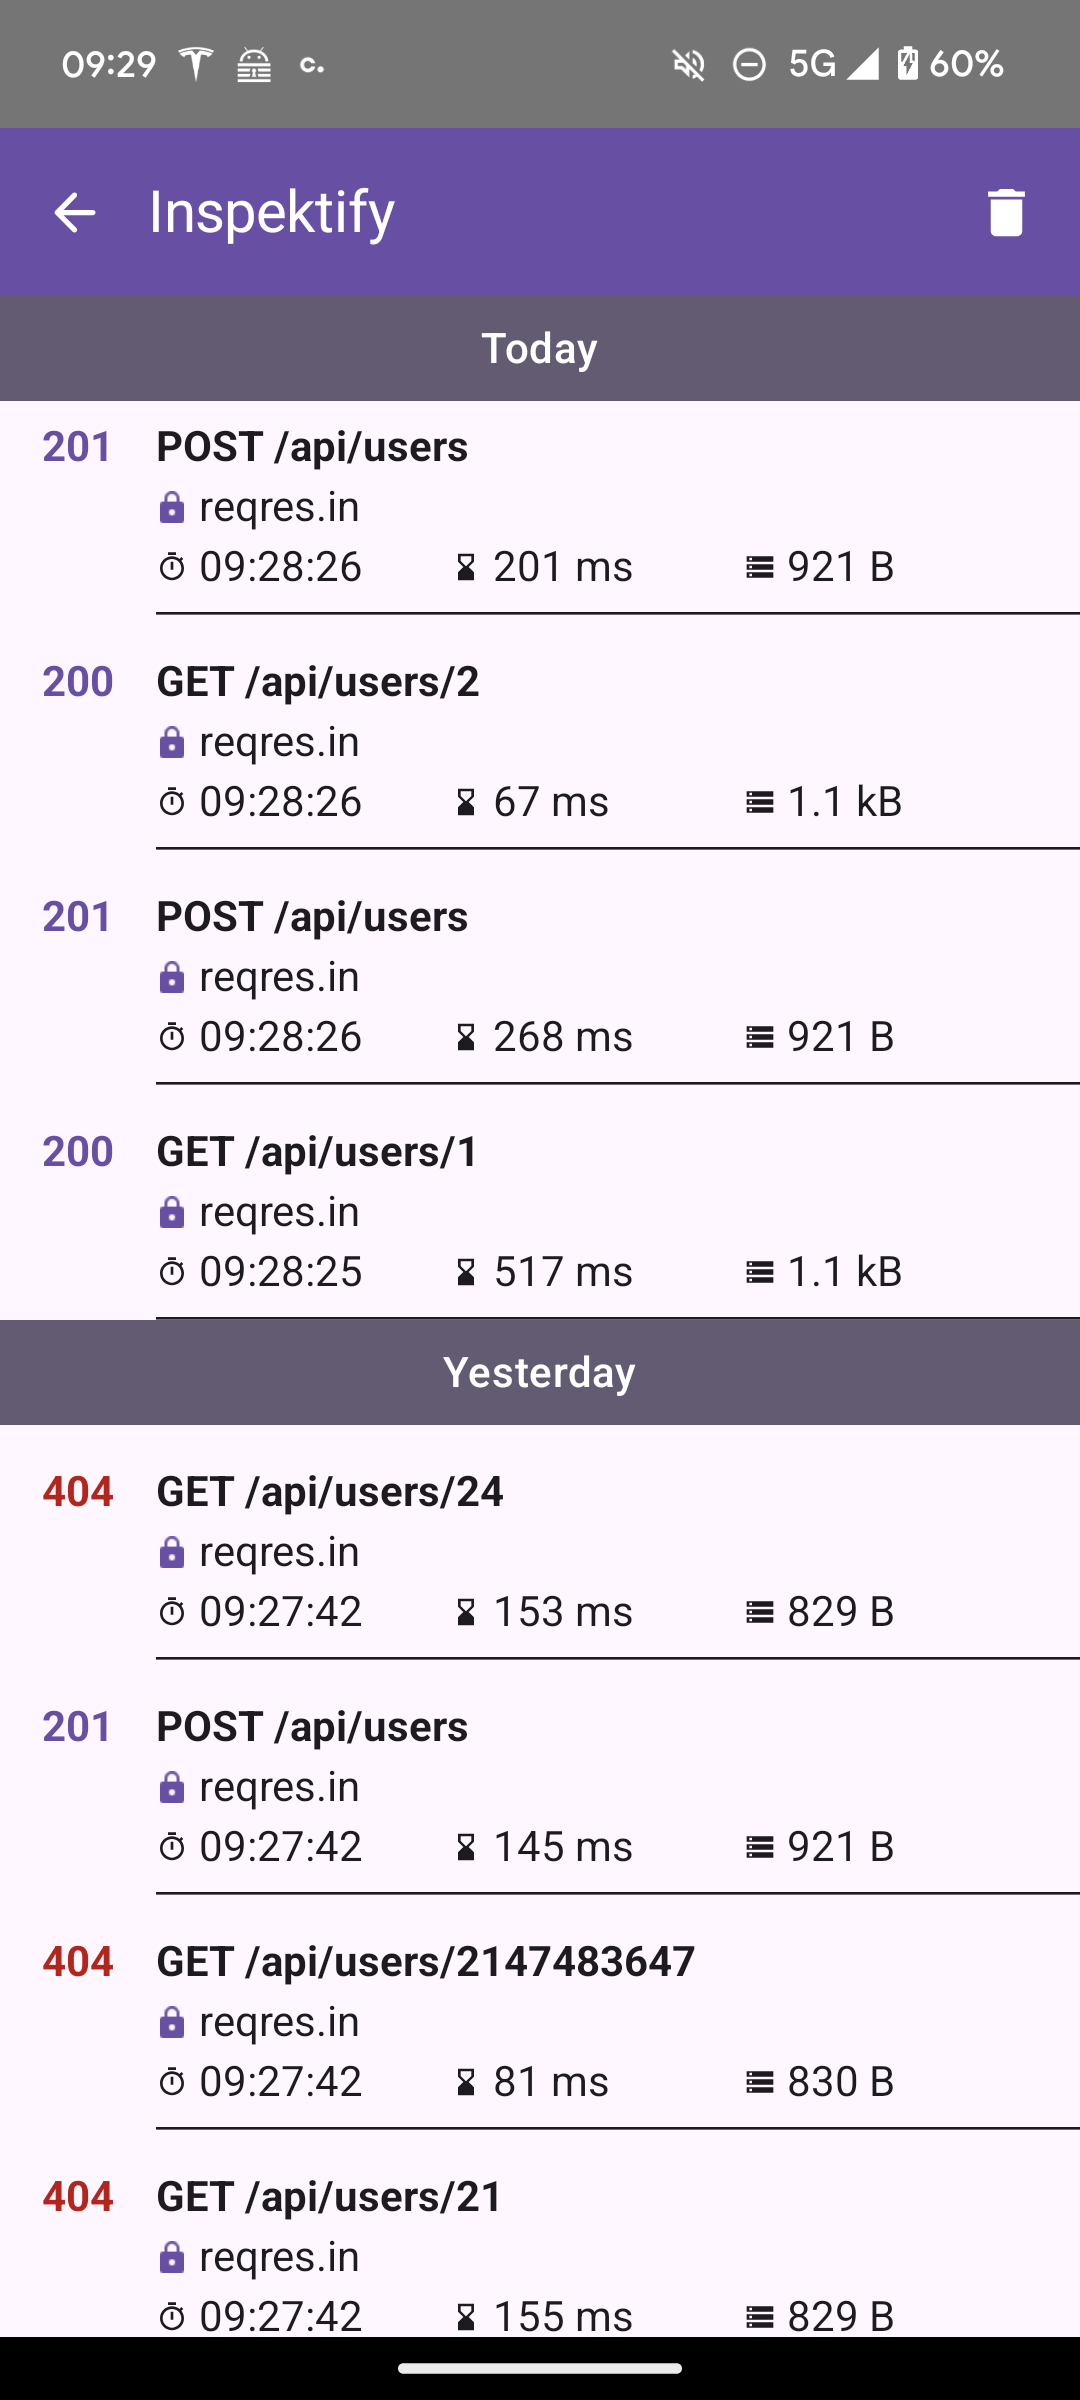
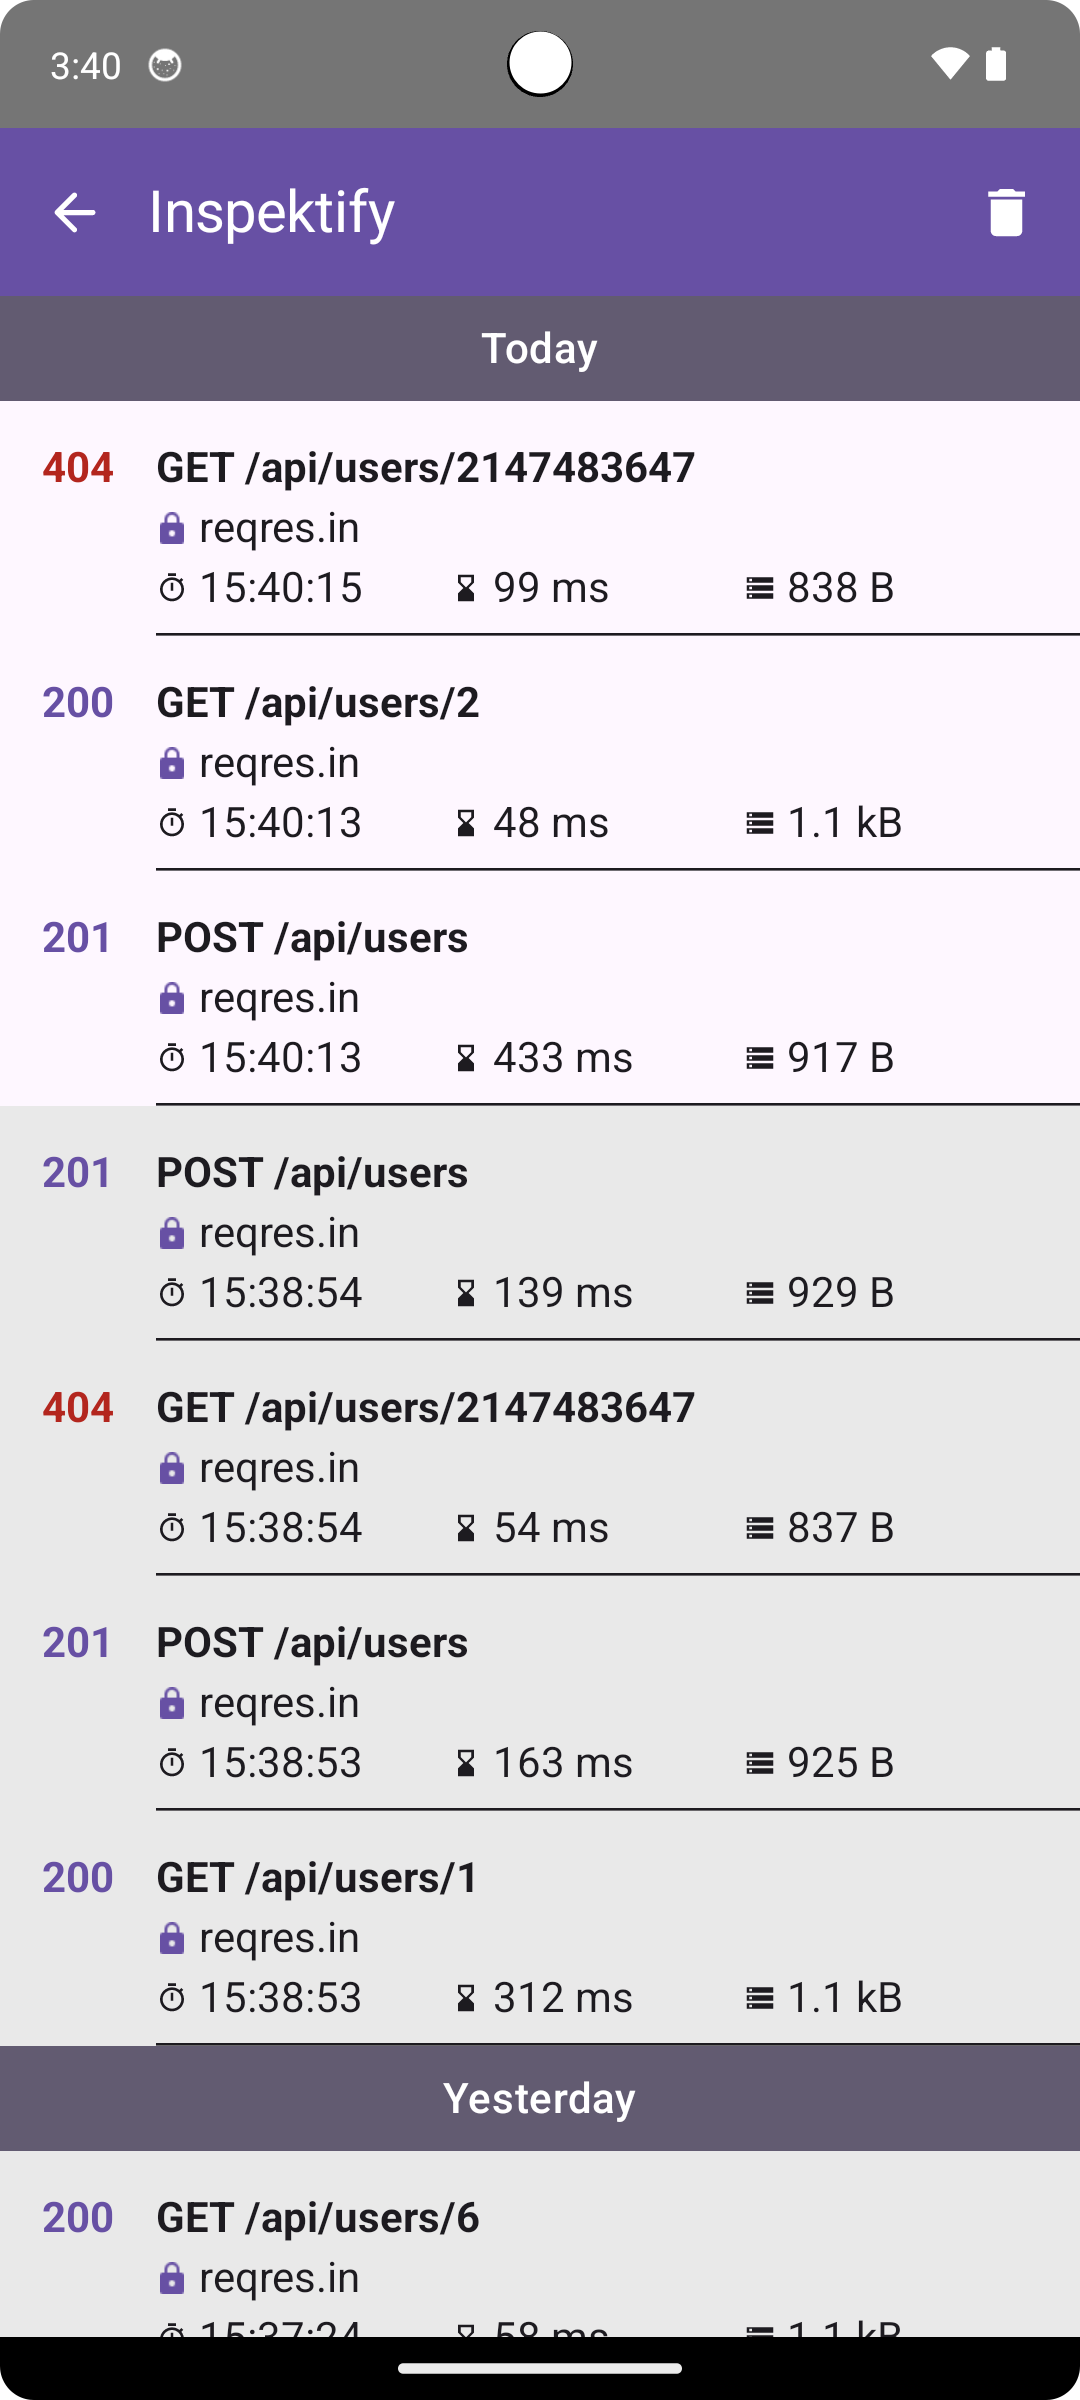
[48] feat: fix readme and screenshots

diff --git a/inspektify/src/commonMain/kotlin/sp/bvantur/inspektify/ktor/InspektifyKtorClient.kt b/inspektify/src/commonMain/kotlin/sp/bvantur/inspektify/ktor/InspektifyKtorClient.kt
@@ -23,6 +23,7 @@ internal class InspektifyKtorClient(
         configure(plugin.config)
         setupRequestInterceptor(client)
         setupResponseInterceptor(client)
+        networkTrafficRepository.createCurrentSessionTimestamp()
     }
 
     private fun configure(config: InspektifyKtorConfig) {
@@ -52,7 +53,7 @@ internal class InspektifyKtorClient(
         // client.receivePipeline.intercept(HttpReceivePipeline.After)
         // currently there is a crash if some other plugin is installed
         // that requires reading of the bytes for response payload
-        val observer: ResponseHandler = { response ->
+        val responseHandler: ResponseHandler = { response ->
             val networkTraffic = networkTrafficRepository.getNetworkTrafficData(
                 response.request.attributes[getNetworkTrafficIdKey()]
             )
@@ -61,6 +62,7 @@ internal class InspektifyKtorClient(
             networkTrafficRepository.saveNetworkTrafficData(networkTrafficWithResponse)
             logResponse(networkTrafficWithResponse)
         }
-        ResponseObserver.prepare { onResponse(observer) }.install(client)
+        val responseObserver = ResponseObserver.prepare { onResponse(responseHandler) }
+        ResponseObserver.install(responseObserver, client)
     }
 }

diff --git a/inspektify/src/commonMain/kotlin/sp/bvantur/inspektify/ktor/domain/usecase/GetAllNetworkTrafficDataUseCase.kt b/inspektify/src/commonMain/kotlin/sp/bvantur/inspektify/ktor/domain/usecase/GetAllNetworkTrafficDataUseCase.kt
@@ -12,6 +12,7 @@ import sp.bvantur.inspektify.ktor.data.utils.extensions.getPresentationStatusCod
 import sp.bvantur.inspektify.ktor.data.utils.extensions.getSize
 import sp.bvantur.inspektify.ktor.data.utils.extensions.getTime
 import sp.bvantur.inspektify.ktor.data.utils.extensions.isCompleted
+import sp.bvantur.inspektify.ktor.data.utils.extensions.isFromActiveSession
 import sp.bvantur.inspektify.ktor.domain.model.NetworkTrafficListItem
 
 internal typealias GroupedNetworkTrafficData = Map<String, List<NetworkTrafficListItem>>
@@ -38,7 +39,10 @@ internal class GetAllNetworkTrafficDataUseCaseImpl(private val repository: Netwo
                         time = networkTrafficData.getTime(),
                         duration = networkTrafficData.getDuration(),
                         size = networkTrafficData.getSize(),
-                        isCompleted = networkTrafficData.isCompleted()
+                        isCompleted = networkTrafficData.isCompleted(),
+                        isCurrentSession = networkTrafficData.isFromActiveSession(
+                            repository.getCurrentSessionTimestamp()
+                        )
                     ) to networkTrafficData.getDate()
                 }.groupBy(
                     keySelector = { (_, localDate) ->

diff --git a/inspektify/src/commonMain/kotlin/sp/bvantur/inspektify/ktor/data/NetworkTrafficRepository.kt b/inspektify/src/commonMain/kotlin/sp/bvantur/inspektify/ktor/data/NetworkTrafficRepository.kt
@@ -1,5 +1,6 @@
 package sp.bvantur.inspektify.ktor.data
 
+import io.ktor.util.date.getTimeMillis
 import kotlinx.coroutines.flow.Flow
 import sp.bvantur.inspektify.NetworkTrafficDataLocal
 import sp.bvantur.inspektify.ktor.data.local.NetworkTrafficLocalDataSource
@@ -8,6 +9,8 @@ import sp.bvantur.inspektify.ktor.data.model.NetworkTrafficId
 import sp.bvantur.inspektify.ktor.data.utils.extensions.toNetworkTraffic
 
 internal class NetworkTrafficRepository(private val localDataSource: NetworkTrafficLocalDataSource) {
+    private var sessionTimestamp: Long = 0L
+
     val networkTrafficData: Flow<List<NetworkTrafficDataLocal>> =
         localDataSource.getAllNetworkTrafficData()
 
@@ -22,4 +25,10 @@ internal class NetworkTrafficRepository(private val localDataSource: NetworkTraf
     suspend fun removeAllNetworkTrafficData() {
         localDataSource.removeAllNetworkTrafficData()
     }
+
+    fun createCurrentSessionTimestamp() {
+        sessionTimestamp = getTimeMillis()
+    }
+
+    fun getCurrentSessionTimestamp(): Long = sessionTimestamp
 }

diff --git a/inspektify/src/commonMain/kotlin/sp/bvantur/inspektify/ktor/ui/list/NetworkTrafficListScreen.kt b/inspektify/src/commonMain/kotlin/sp/bvantur/inspektify/ktor/ui/list/NetworkTrafficListScreen.kt
@@ -127,7 +127,7 @@ internal fun NetworkTrafficListScreen(
             if (viewState.items.isEmpty()) {
                 Text(
                     text = "No items",
-                    modifier = Modifier.align(Alignment.CenterHorizontally)
+                    modifier = Modifier.align(Alignment.CenterHorizontally).padding(top = 8.dp)
                 )
             } else {
                 LazyColumn(modifier = Modifier.fillMaxWidth()) {
@@ -163,7 +163,12 @@ internal fun NetworkTrafficListScreen(
 
 @Composable
 internal fun NetworkTrafficItem(item: NetworkTrafficListItem, modifier: Modifier = Modifier) {
-    Box(modifier = modifier.fillMaxWidth()) {
+    Box(
+        modifier = modifier.fillMaxWidth()
+            .background(
+                if (item.isCurrentSession) MaterialTheme.colorScheme.surface else MaterialTheme.colorScheme.tertiary
+            )
+    ) {
         Row(modifier = Modifier.fillMaxWidth()) {
             Text(
                 modifier = Modifier.padding(all = 16.dp),

diff --git a/inspektify/src/commonMain/kotlin/sp/bvantur/inspektify/ui/theme/Color.kt b/inspektify/src/commonMain/kotlin/sp/bvantur/inspektify/ui/theme/Color.kt
@@ -1,5 +1,10 @@
 package sp.bvantur.inspektify.ui.theme
 
 import androidx.compose.material3.lightColorScheme
+import androidx.compose.ui.graphics.Color
 
-internal val InspektifyColorPalette = lightColorScheme()
+internal val Mercury = Color(0xFFE9E9E9)
+
+internal val InspektifyColorPalette = lightColorScheme(
+    tertiary = Mercury
+)

diff --git a/inspektify/src/commonMain/kotlin/sp/bvantur/inspektify/ktor/InspektifyRequestHandler.kt b/inspektify/src/commonMain/kotlin/sp/bvantur/inspektify/ktor/InspektifyRequestHandler.kt
@@ -3,7 +3,6 @@ package sp.bvantur.inspektify.ktor
 import io.ktor.client.request.HttpRequestBuilder
 import io.ktor.http.charset
 import io.ktor.http.content.OutgoingContent
-import io.ktor.http.contentType
 import io.ktor.util.AttributeKey
 import io.ktor.utils.io.ByteReadChannel
 import io.ktor.utils.io.charsets.Charsets

diff --git a/inspektify/src/commonMain/kotlin/sp/bvantur/inspektify/ktor/domain/model/NetworkTrafficListItem.kt b/inspektify/src/commonMain/kotlin/sp/bvantur/inspektify/ktor/domain/model/NetworkTrafficListItem.kt
@@ -12,7 +12,8 @@ internal data class NetworkTrafficListItem(
     val time: String,
     val duration: String,
     val size: String,
-    val isCompleted: Boolean
+    val isCompleted: Boolean,
+    val isCurrentSession: Boolean
 )
 
 internal data class StatusCode(val statusCode: String, val statusColor: StatusColor)

diff --git a/inspektify/src/commonMain/kotlin/sp/bvantur/inspektify/ktor/data/utils/extensions/NetworkTrafficDataLocalExtensions.kt b/inspektify/src/commonMain/kotlin/sp/bvantur/inspektify/ktor/data/utils/extensions/NetworkTrafficDataLocalExtensions.kt
@@ -77,3 +77,6 @@ internal fun NetworkTrafficDataLocal.getDate(): String {
 }
 
 internal fun NetworkTrafficDataLocal.isCompleted(): Boolean = responseStatus != null
+
+internal fun NetworkTrafficDataLocal.isFromActiveSession(sessionTimestamp: Long): Boolean =
+    requestTimestamp ?: 0L >= sessionTimestamp

diff --git a/README.md b/README.md
@@ -1,5 +1,9 @@
 <h1 align="center">Inspektify</h1>
 
+<p align="center">
+  <td><img src="inspektify/screenshots/inspektify_logo.png" width=320></td>
+</p>
+
 Inspektify is Kotlin Multiplatform Library for mobile platforms iOS and Android.
 It allows you observing network of your application in realtime directly on your mobile device.
 
@@ -76,11 +80,13 @@ HttpClient() {
 }
 ```
 
-# Features
+# Configuration
 
 This library was built with flexibility in mind. We don't want to force the behavior of the library
 upon the developer who uses this library, so we implemented a couple of configurations for the
-library to make it more flexible.
+library to make it more flexible. The library also tracks which network transactions are from
+current active app session and highlights them in the list with a different background color. Network transactions
+from previous sessions have a background in light gray color.
 
 ### 1. Presentation type
 
